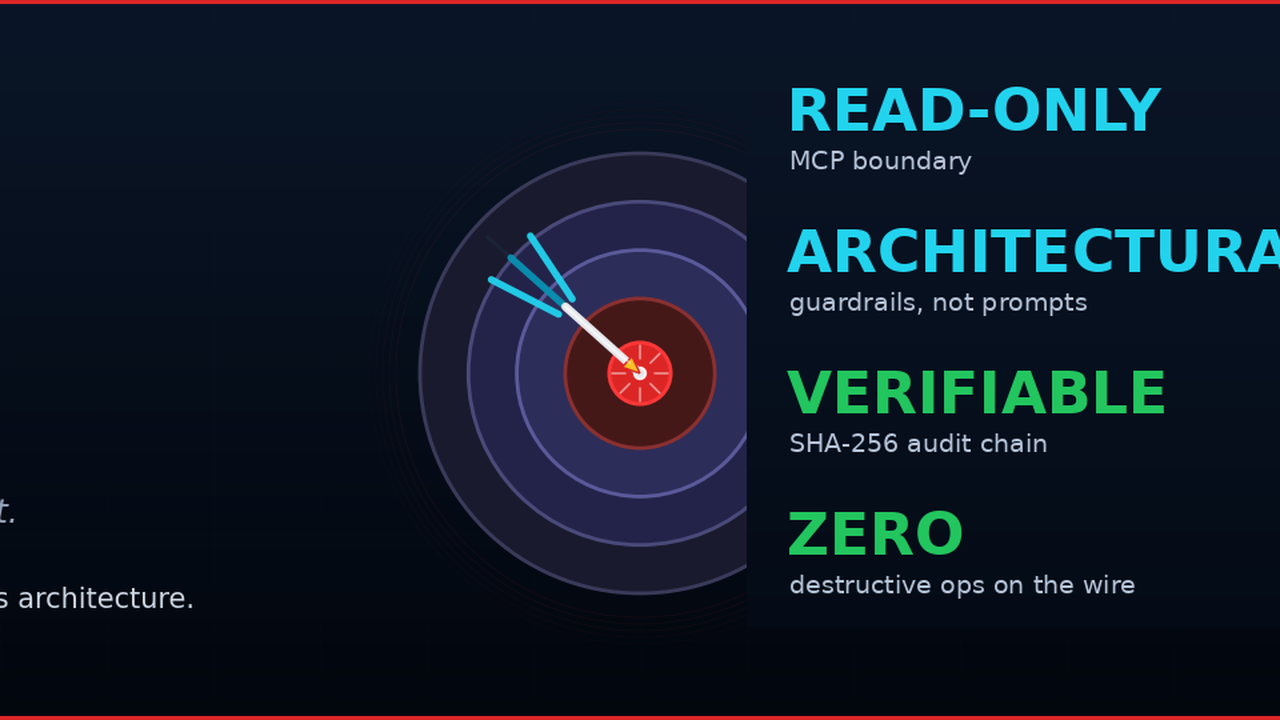
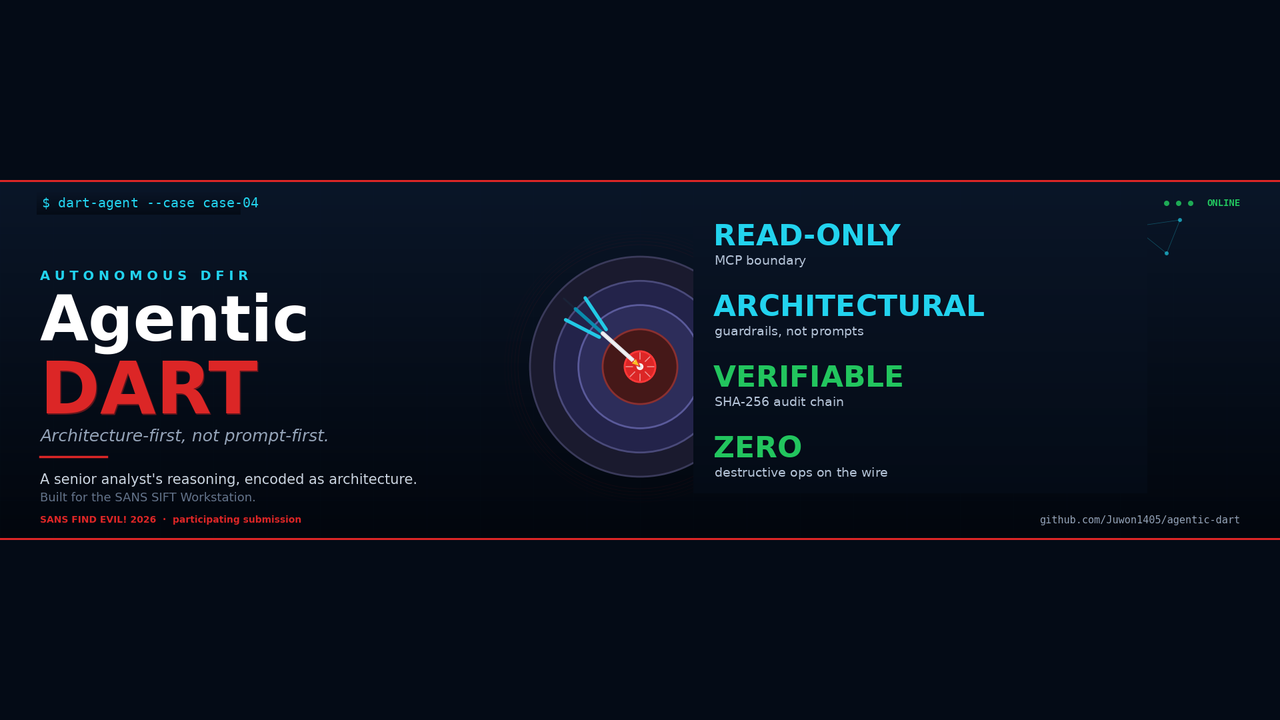
fix(images): README uses hero (not cropped thumbnail) + letterbox derivatives
User reported the README thumbnail looked unchanged. Two issues
combined to cause this.

(1) README was pointing at agentic-dart-thumbnail.png, not the hero.
    The thumbnail is intended for 16:9 social/Devpost contexts
    where the README's wide hero would be the wrong shape. For the
    README itself, the hero (1920×540, full design preserved) is
    the right image. README L2 now points at agentic-dart-hero.png.

(2) The thumbnail derivative had been generated by CROPPING the
    hero into 1280×720, which is a 16:9 target shape. The hero is
    much wider (1920×540, roughly 32:9), so crop-to-fit chopped off
    the title and stat-block edges — 'ARCHITECTURAL' was missing
    its trailing L, and the dartboard partially disappeared. That
    was making the thumbnail look like the OLD image even though
    the underlying hero was correct.

    Fix: replaced the crop-to-aspect helper with a fit-to-aspect
    helper that letterboxes (pads with background color) instead
    of cropping. Every pixel of the source hero ends up visible
    in the derivative; only background bars get added at top/bottom
    or left/right as needed. The dartboard and all four evergreen
    stat-block words are fully present in both thumbnail (1280×720
    with top/bottom letterbox) and wiki-banner (1200×300, the only
    one that genuinely needs cropping because it's a wide-thin
    banner).

OCR verification of the derivatives:
  thumbnail:  ARCHITECTURAL present in full, '$ dart-agent --case
[…]

diff --git a/scripts/regenerate_hero.py b/scripts/regenerate_hero.py
@@ -119,31 +119,38 @@ def make_hero():
     return img
 
 
-def _crop_to_aspect(img, target_w, target_h):
+def _fit_to_aspect(img, target_w, target_h, bg=BG_BOTTOM):
+    """Fit (not crop) the source into target aspect ratio by letterbox
+    padding. Preserves ALL content — text and the dartboard never get
+    cropped off."""
     hw, hh = img.size
     src_ratio = hw / hh
     tgt_ratio = target_w / target_h
     if src_ratio > tgt_ratio:
-        new_w = int(hh * tgt_ratio)
-        x0 = (hw - new_w) // 2
-        crop = img.crop((x0, 0, x0 + new_w, hh))
-    else:
+        # Source wider — letterbox top/bottom
         new_h = int(hw / tgt_ratio)
-        y0 = (hh - new_h) // 2
-        crop = img.crop((0, y0, hw, y0 + new_h))
-    return crop.resize((target_w, target_h), Image.LANCZOS)
+        canvas = Image.new("RGB", (hw, new_h), bg)
+        y_offset = (new_h - hh) // 2
+        canvas.paste(img.convert("RGB"), (0, y_offset))
+    else:
+        # Source taller — pillarbox left/right
+        new_w = int(hh * tgt_ratio)
+        canvas = Image.new("RGB", (new_w, hh), bg)
+        x_offset = (new_w - hw) // 2
+        canvas.paste(img.convert("RGB"), (x_offset, 0))
+    return canvas.resize((target_w, target_h), Image.LANCZOS)
 
 
 def make_thumbnail(hero):
-    thumb = _crop_to_aspect(hero, 1280, 720)
-    thumb.convert("RGB").save(THUMB_OUT, "PNG", optimize=True)
+    thumb = _fit_to_aspect(hero, 1280, 720)
+    thumb.save(THUMB_OUT, "PNG", optimize=True)
     print(f"  ✓ thumbnail → {THUMB_OUT.name}  "
           f"({THUMB_OUT.stat().st_size // 1024} KB, 1280×720)")
 
 
 def make_wiki_banner(hero):
-    banner = _crop_to_aspect(hero, 1200, 300)
-    banner.convert("RGB").save(WIKI_OUT, "PNG", optimize=True)
+    banner = _fit_to_aspect(hero, 1200, 300)
+    banner.save(WIKI_OUT, "PNG", optimize=True)
     print(f"  ✓ wiki      → docs/{WIKI_OUT.name}  "
           f"({WIKI_OUT.stat().st_size // 1024} KB, 1200×300)")
 

diff --git a/README.md b/README.md
@@ -1,5 +1,5 @@
 <p align="center">
-  <img src="./agentic-dart-thumbnail.png" alt="Agentic-DART — Autonomous DFIR Agent" width="100%">
+  <img src="./agentic-dart-hero.png" alt="Agentic-DART — Autonomous DFIR Agent" width="100%">
 </p>
 
 <p align="center">
